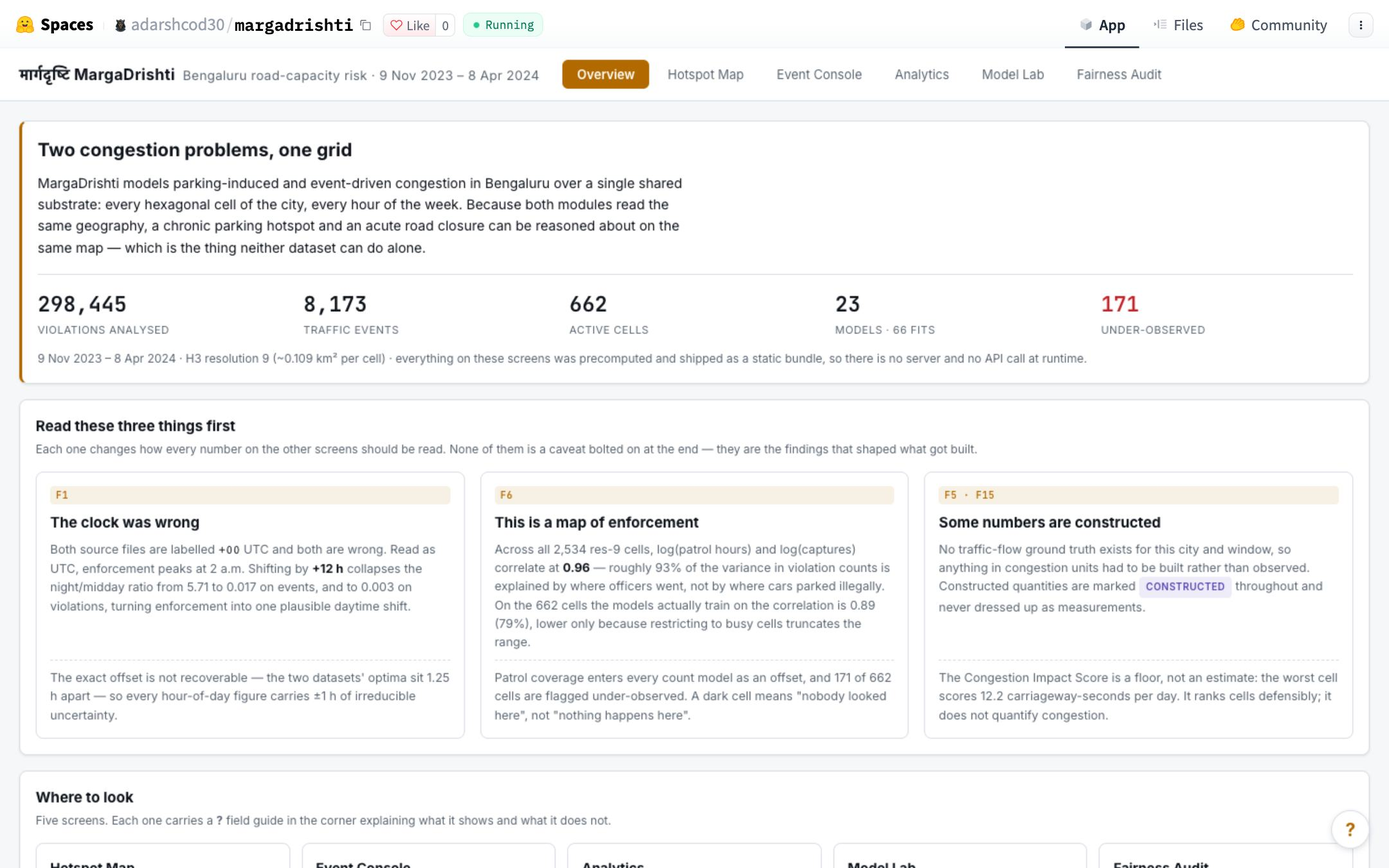
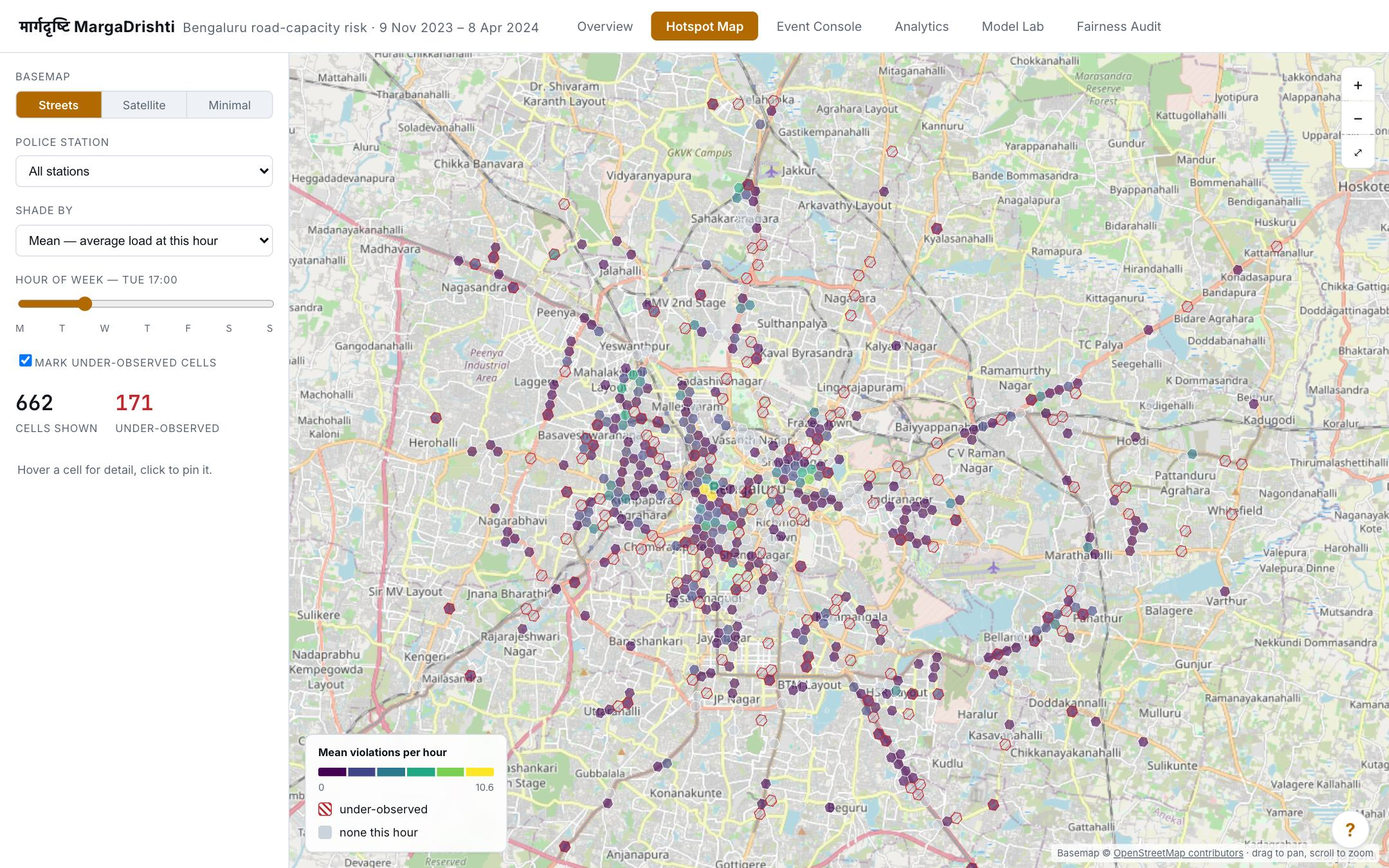
Fresh Vayu and MargaDrishti captures, engine panel moves beside the text
Vayu was showing an API key wall, now fixed at the source, so it is
recaptured: the Delhi ward AQI map with hazard alerts and the city
forecast.

MargaDrishti now shows the hotspot map rather than the landing tab, which
is the view worth seeing: H3 cells over Bengaluru, 662 shown and 171
marked under-observed. That needed a click before the capture, so
tools/shot-tab.cjs opens a page, clicks a named control and writes over
that project's shot. It records the Hugging Face gotcha it cost an
attempt to find: a static Space is served from <owner>-<space>.static.
hf.space, and the plain .hf.space host 404s.

The routing engine is no longer full bleed. The map sits beside the copy
as a contained panel at the image's own ratio, so nothing is cropped and
the search is readable. That section also drops clear-hud: it was
reserving 190px for the pinned chip, which squeezed the panel, and the
chip carries its own background so it reads fine crossing an image.

diff --git a/src/app/page.tsx b/src/app/page.tsx
@@ -228,48 +228,29 @@ export default function Home() {
         </div>
       </section>
 
-      {/* ---------------- the engine, full bleed ---------------- */}
+      {/* ---------------- the engine ---------------- */}
       {graph?.shot && (
-        <section data-section="Under the products" className="relative border-y border-line">
-          <Link href={`/work/${graph.slug}`} className="group block">
-            {/* the screenshot is already near-black, so it bleeds into the page
-                instead of sitting on it as another framed rectangle */}
-            {/* the app's own control panel is cropped out of this copy: at band
-                size its text collided with the headline and read as noise */}
-            <Image
-              src="/shots/graphsuite-band.jpg"
-              alt="The Adaptive Graph Search Suite running: a bidirectional Dijkstra search across the Indian national highway network."
-              width={1660}
-              height={1178}
-              className="h-[58vh] min-h-[420px] w-full object-cover object-center brightness-[1.22] saturate-[1.12] transition-transform duration-[1.4s] group-hover:scale-[1.03]"
-            />
-            <div
-              aria-hidden
-              className="absolute inset-0"
-              style={{
-                background:
-                  [
-                    // the caption sits bottom left, so the ground is built there
-                    // and the map is left alone through the middle and right
-                    "linear-gradient(to top, var(--bg) 6%, color-mix(in oklab, var(--bg) 78%, transparent) 34%, transparent 66%)",
-                    "linear-gradient(to right, var(--bg) 0%, color-mix(in oklab, var(--bg) 58%, transparent) 17%, color-mix(in oklab, var(--bg) 22%, transparent) 38%, transparent 54%)",
-                  ].join(", "),
-              }}
-            />
-            <div className="absolute inset-x-0 bottom-0 px-5 pb-10 sm:px-8 sm:pb-14">
-              <div className="mx-auto max-w-6xl">
+        <section data-section="Under the products" className="px-5 py-24 sm:px-8 sm:py-32">
+          <div className="mx-auto grid max-w-6xl items-center gap-10 lg:grid-cols-12 lg:gap-16">
+            <div className="lg:col-span-5">
+              <Reveal>
                 <p className="eyebrow">Under the products</p>
-                <h2 className="font-display mt-2 max-w-2xl text-[9vw] leading-[0.94] tracking-[-0.04em] sm:text-[3.4vw]">
-                  Twelve routing algorithms,
-                  <br />
-                  compiled into the browser<span className="text-accent">.</span>
+              </Reveal>
+              <Reveal delay={0.06}>
+                <h2 className="font-display mt-3 text-[9vw] leading-[0.96] tracking-[-0.035em] sm:text-[3.2vw] lg:text-[2.35vw]">
+                  Twelve routing algorithms, compiled
+                  into the browser<span className="text-accent">.</span>
                 </h2>
-                <p className="mt-4 max-w-xl text-sm leading-relaxed text-ink2">
+              </Reveal>
+              <Reveal delay={0.14}>
+                <p className="mt-5 max-w-md text-sm leading-relaxed text-ink2">
                   {graph.name}, in C++20 over 1.7M junctions. Contraction Hierarchies reach 44x
                   faster with 460x fewer settled nodes than Dijkstra, and every route is verified
                   exact against a reference implementation rather than trusted on the speedup.
                 </p>
-                <dl className="mt-7 grid max-w-xl grid-cols-2 gap-x-8 gap-y-5 sm:grid-cols-4">
+              </Reveal>
+              <Reveal delay={0.2}>
+                <dl className="mt-8 grid max-w-sm grid-cols-2 gap-x-6 gap-y-6">
                   {[
                     ["1.7M", "junctions"],
                     ["44x", "faster than Dijkstra"],
@@ -284,12 +265,37 @@ export default function Home() {
                     </div>
                   ))}
                 </dl>
-                <span className="mt-7 inline-flex items-center gap-2 text-sm font-medium text-accent">
+              </Reveal>
+              <Reveal delay={0.26}>
+                <Link
+                  href={`/work/${graph.slug}`}
+                  className="group mt-8 inline-flex items-center gap-2 text-sm font-medium text-accent"
+                >
                   Read the case study <span className="arrow">↗</span>
-                </span>
-              </div>
+                </Link>
+              </Reveal>
             </div>
-          </Link>
+
+            <Reveal delay={0.12} className="lg:col-span-7">
+              {/* the panel matches the image's own ratio, so nothing is cropped
+                  and the search is readable at this size */}
+              <Link
+                href={`/work/${graph.slug}`}
+                className="panel group block aspect-[1660/1178] overflow-hidden"
+              >
+                <Image
+                  src="/shots/graphsuite-band.jpg"
+                  alt="The Adaptive Graph Search Suite running: a bidirectional Dijkstra search across the Indian national highway network."
+                  width={1660}
+                  height={1178}
+                  className="h-full w-full object-cover transition-transform duration-[1.4s] group-hover:scale-[1.04]"
+                />
+              </Link>
+              <p className="eyebrow mt-3 !text-muted">
+                Bidirectional Dijkstra over the national highway grid, 30.9 ms in the tab
+              </p>
+            </Reveal>
+          </div>
         </section>
       )}
 
